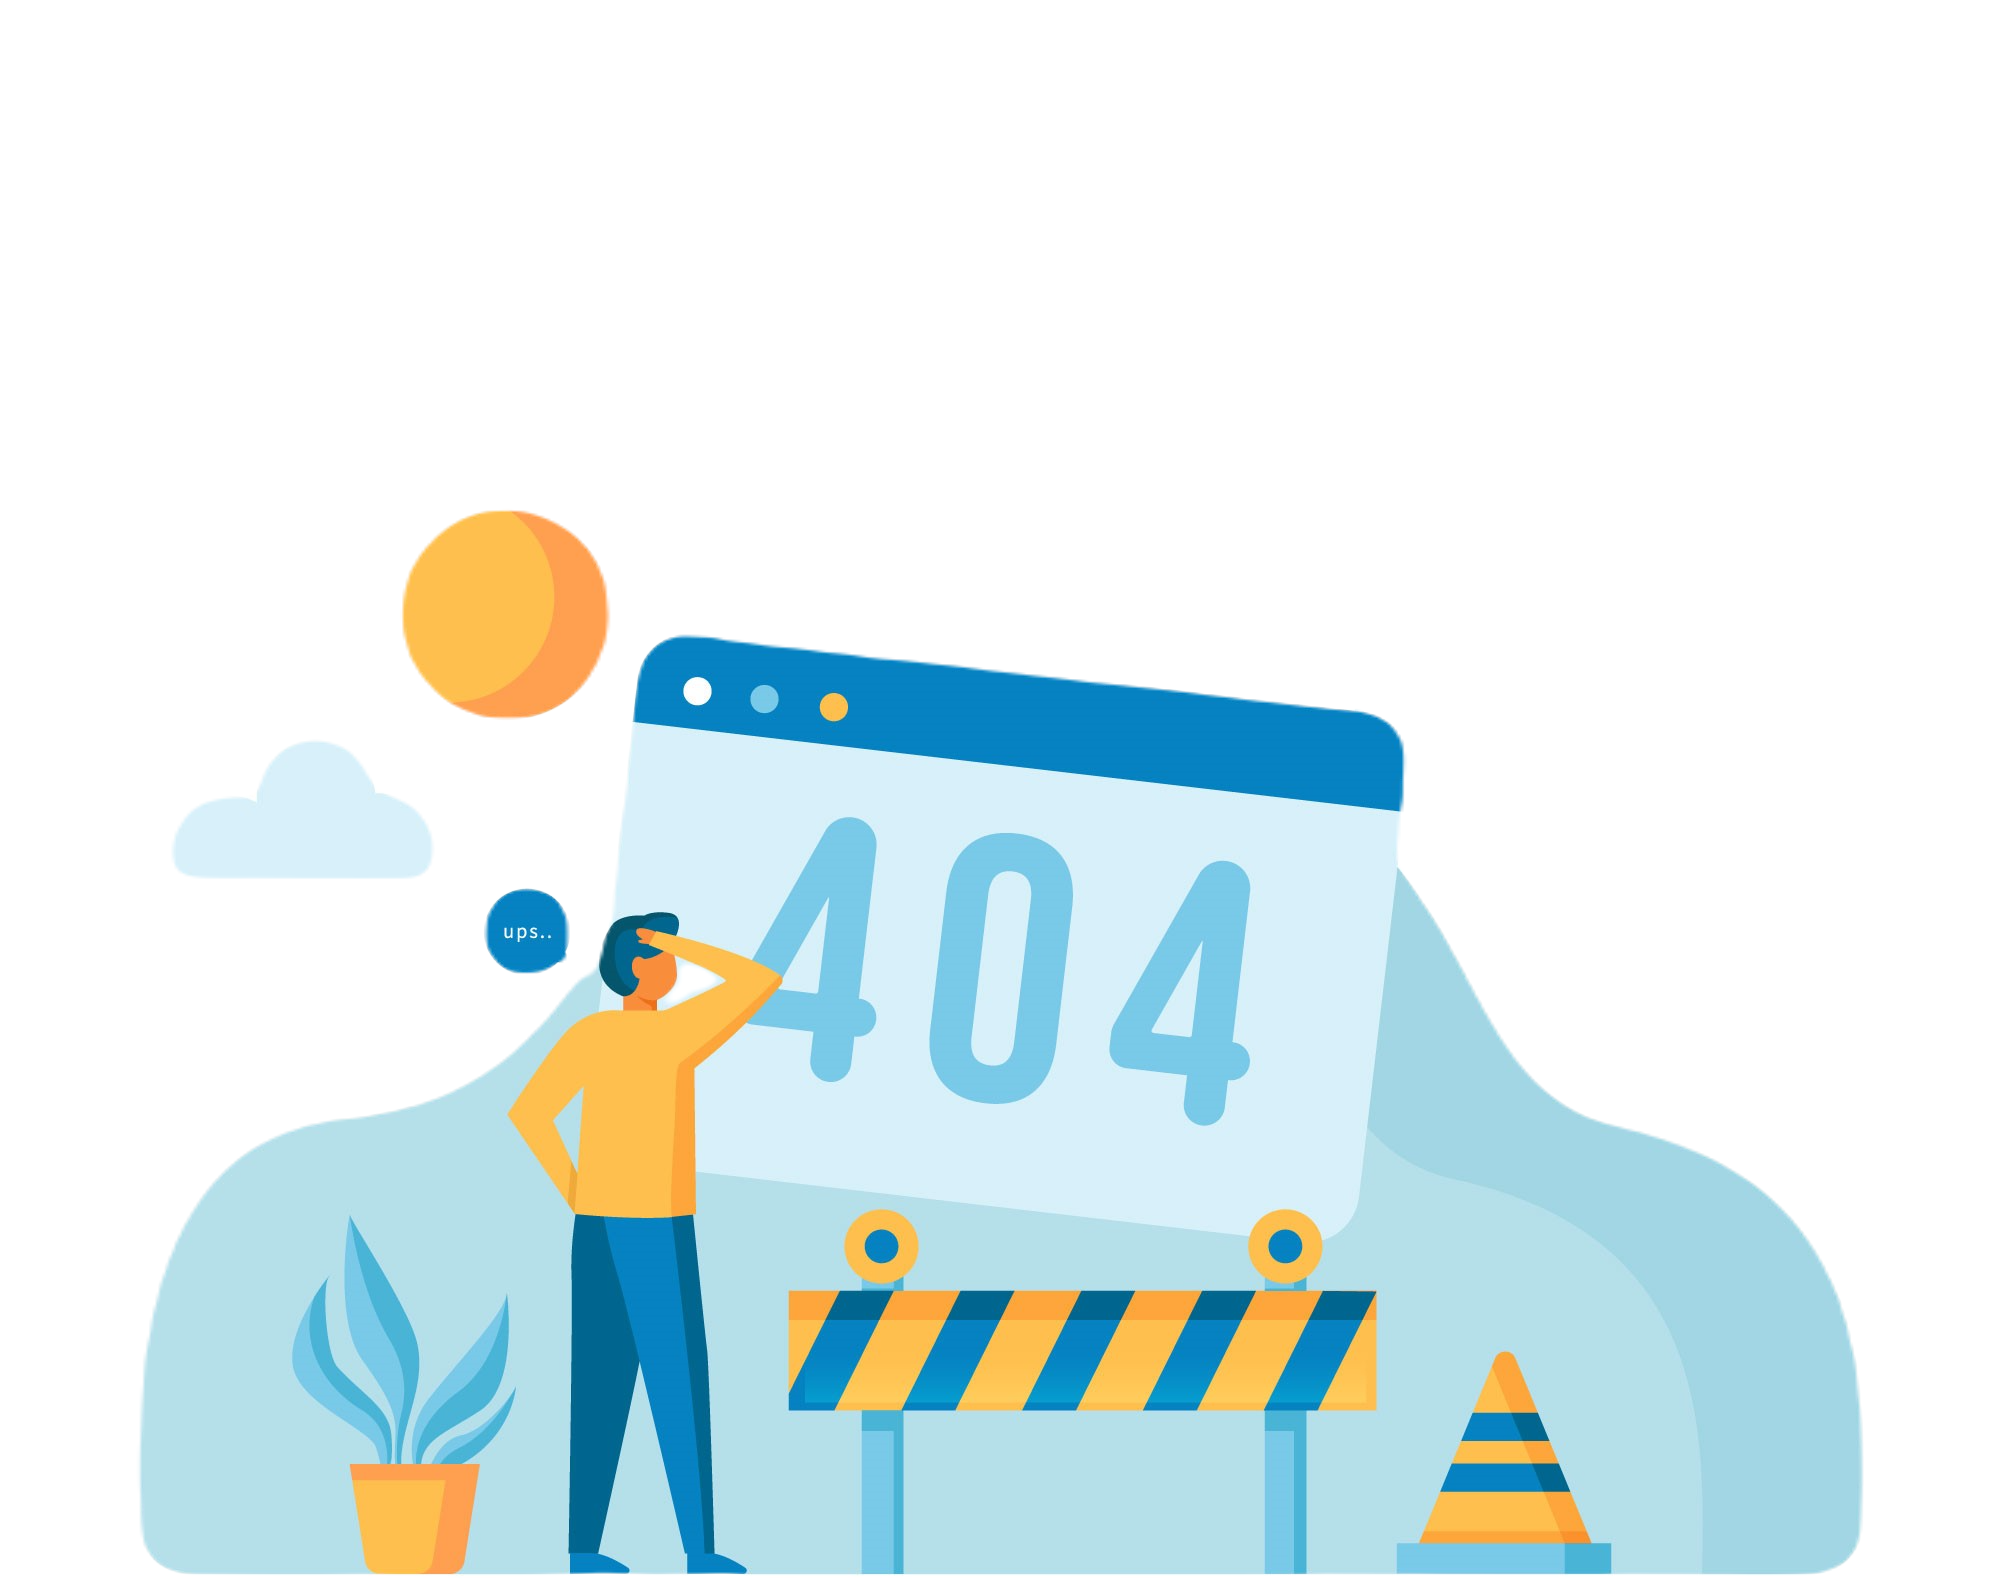
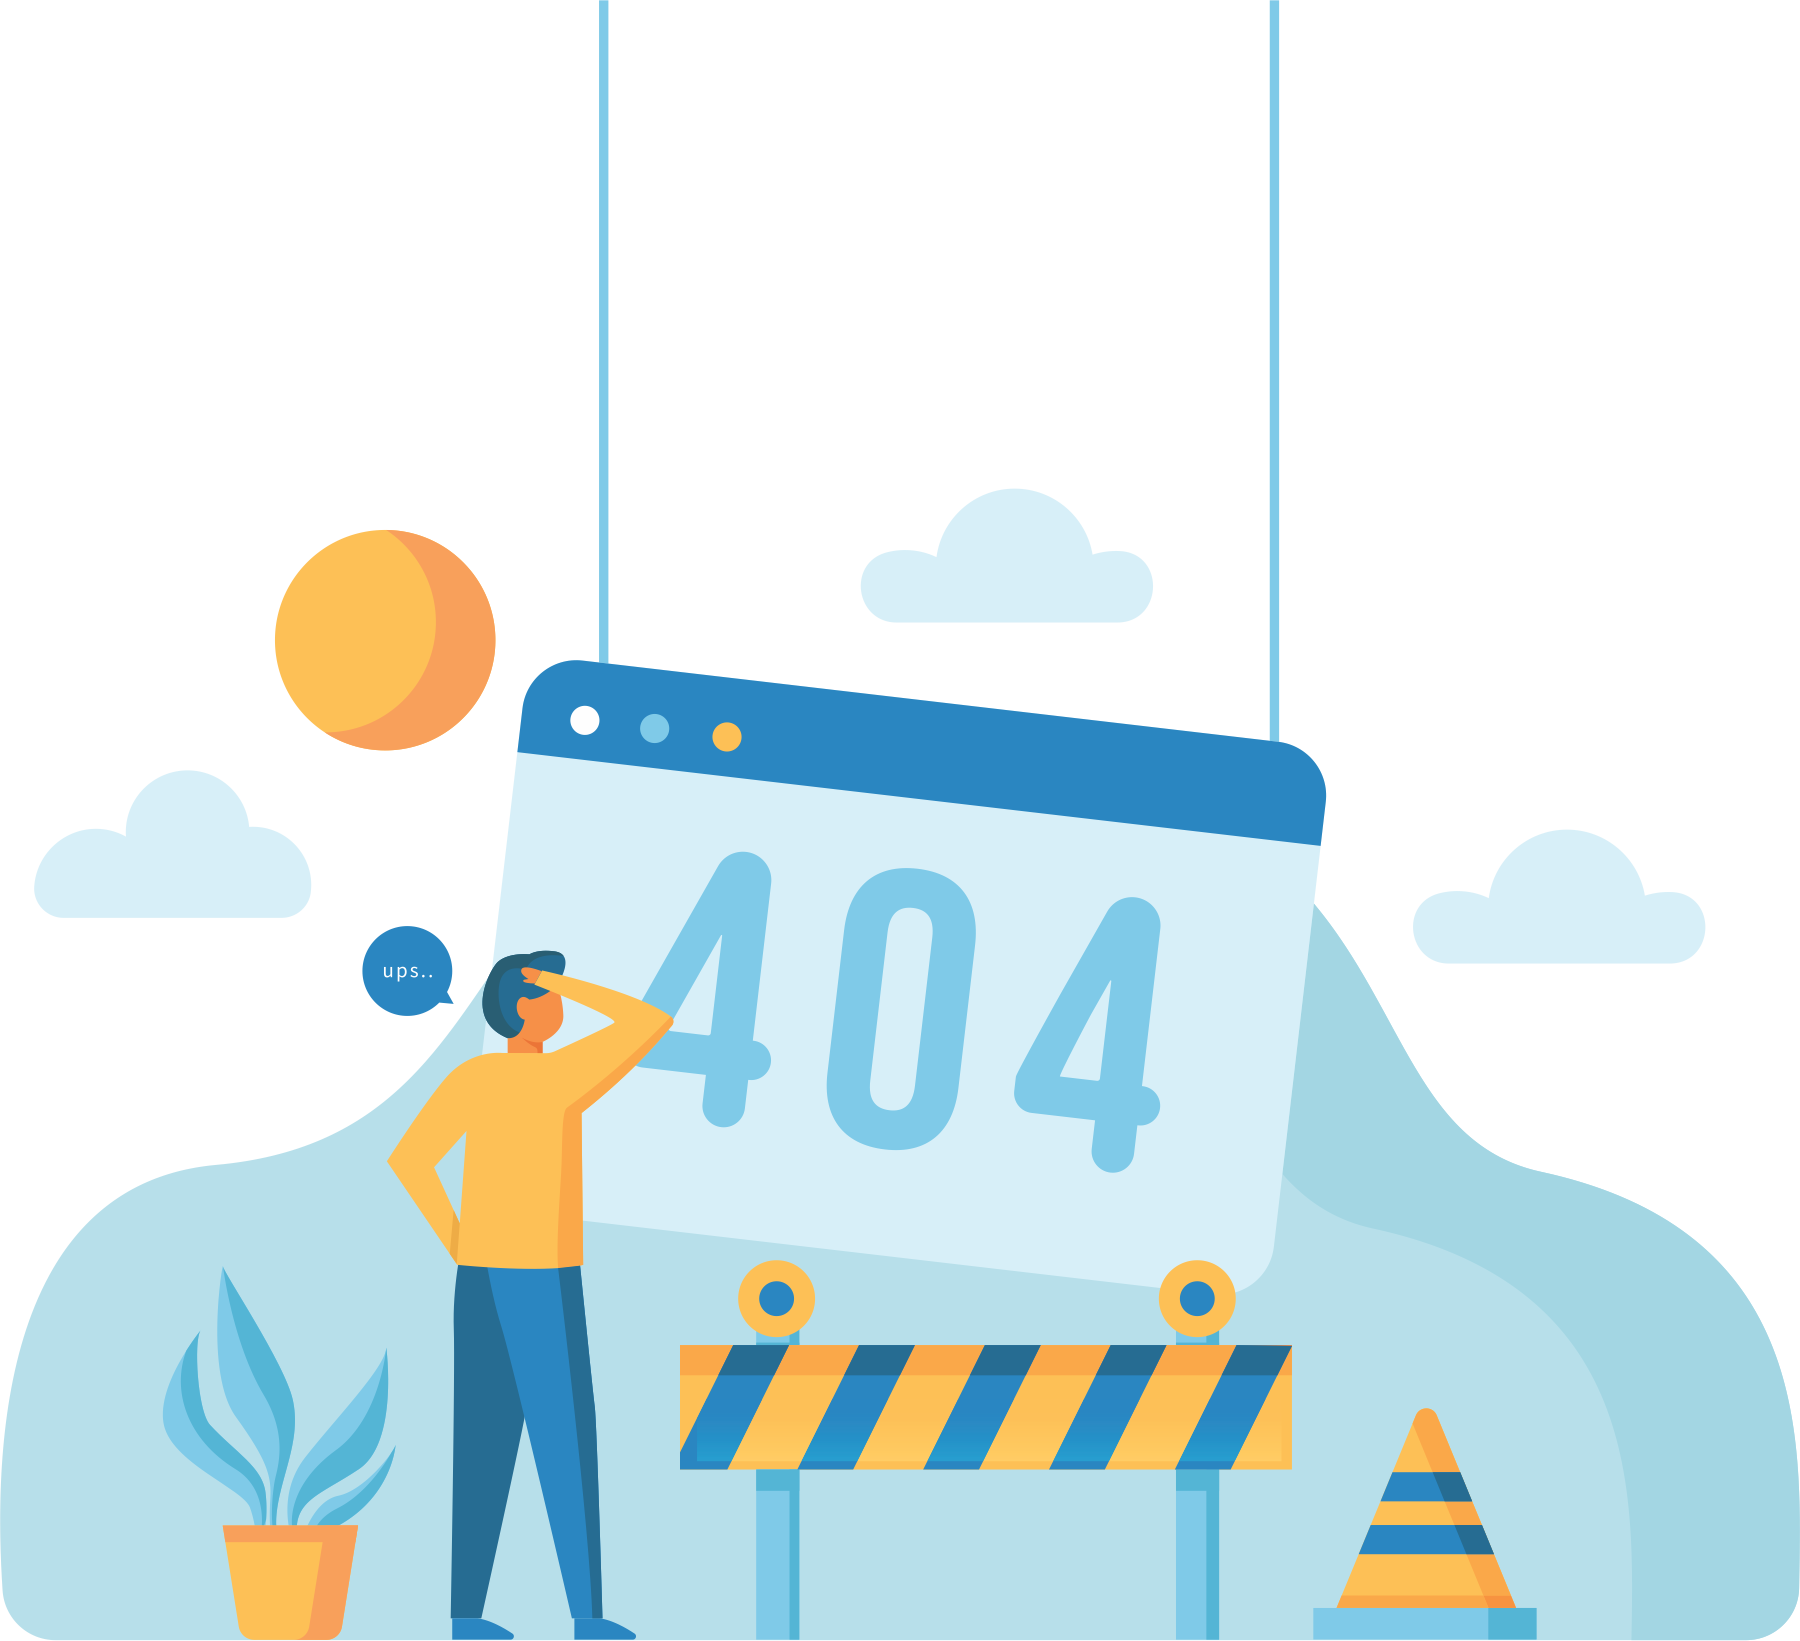
add unauthorized page

Changed region(s): [[0.0, 0.0, 1.0, 1.0], [0.7778, 0.4937, 0.9644, 0.5863], [0.4667, 0.5246, 0.5289, 0.6171]]

diff --git a/client/src/pages/Unauthorized.jsx b/client/src/pages/Unauthorized.jsx
@@ -1,7 +1,37 @@
-import React from 'react'
-
+import React from "react";
+import { useNavigate } from "react-router-dom";
+import Pic401 from "/assets/401-error.png";
 export default function Unauthorized() {
-    return (
-        <div>Thằng nhóc con không có quyền vào trang này đâu</div>
-    )
+  const navigate = useNavigate();
+  const navigateHomePage = (e) => {
+    e.preventDefault();
+    navigate("/");
+  };
+
+  return (
+    <div className="container h-screen bg-inherit">
+      <div className="flex flex-row justify-center items-center">
+        <div className="flex flex-col justify-start items-start mt-16">
+          <p className="text-5xl py-7 text-cyan-400 mb-4 font-extrabold">
+            Không có quyền!
+          </p>
+          <p className="font-extralight text-xl text-gray-800 ">
+            Oops! Bạn không có đủ quyền để truy cập vào địa chỉ này.
+            <br /> Trở về trang chủ bằng cách chọn vào nút bên dưới.
+          </p>
+
+          <button
+            onClick={navigateHomePage}
+            type="button"
+            class="text-white font-semibold text-lg mt-7 bg-gradient-to-r from-cyan-500 to-blue-500 hover:bg-gradient-to-bl focus:ring-4 focus:outline-none focus:ring-cyan-300 rounded-lg px-10 py-2.5 text-center mr-2 mb-2"
+          >
+            Trang chủ
+          </button>
+        </div>
+        <div className="w-3/5 h-auto">
+          <img src={Pic401} alt="err-pic" />
+        </div>
+      </div>
+    </div>
+  );
 }

diff --git a/client/src/App.jsx b/client/src/App.jsx
@@ -78,6 +78,7 @@ function App() {
 
                 {/* </Route> */}
                 <Route path='*' element={<PageNotFound />} />
+                <Route path='unauthorized' element={<Unauthorized />} />
             </Routes>
         </>
     )
